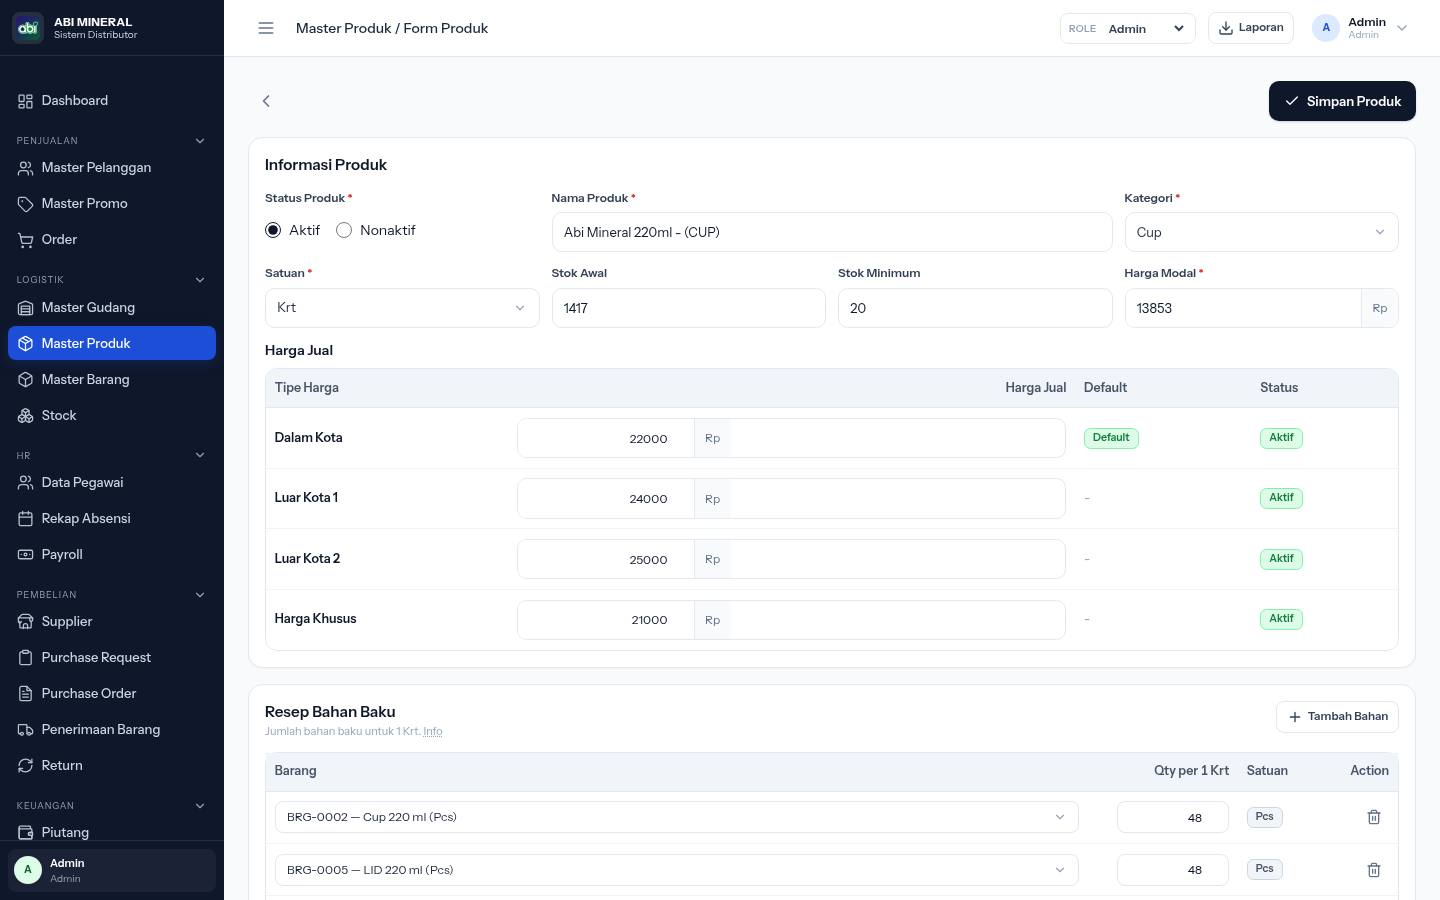
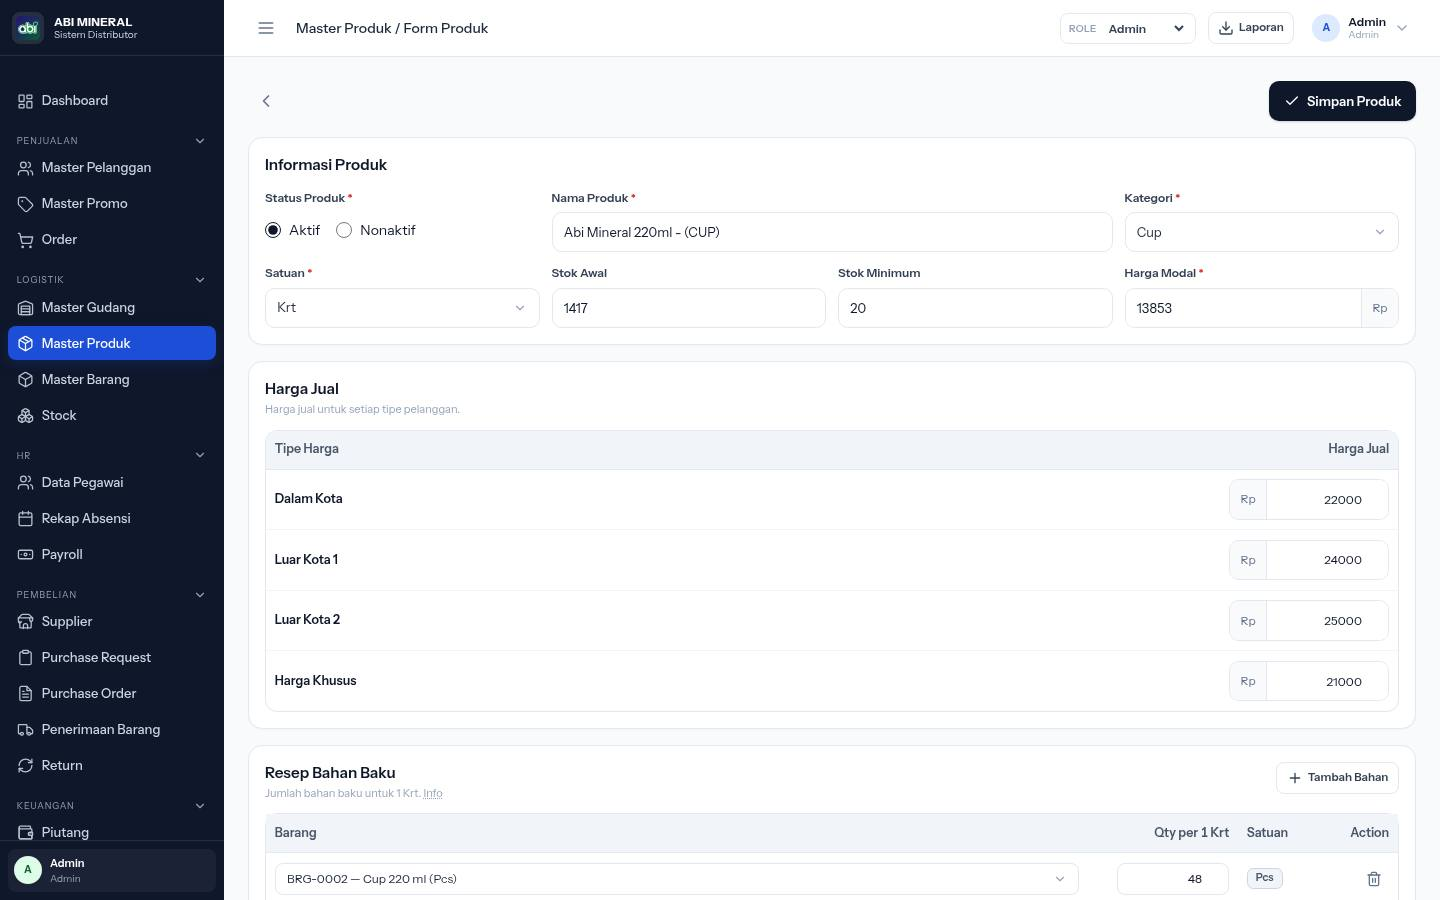
feat: refine product selling price card layout

diff --git a/index.html b/index.html
@@ -1748,24 +1748,33 @@
             <div><label class="label">Stok Awal</label><input type="number" class="input" x-model.number="productForm.stock"></div>
             <div><label class="label">Stok Minimum</label><input type="number" class="input" x-model.number="productForm.minStock"></div>
             <div><label class="label">Harga Modal <span class="req">*</span></label><div class="input-group"><input type="number" class="input" x-model.number="productForm.cost"><span class="addon">Rp</span></div></div>
-            <div class="md:col-span-2 xl:col-span-4">
-              <div class="section-title mb-2 text-sm">Harga Jual</div>
-              <div class="table-wrap">
-                <table class="data-table">
-                  <thead><tr><th>Tipe Harga</th><th class="num">Harga Jual</th><th>Default</th><th>Status</th></tr></thead>
-                  <tbody>
-                    <template x-for="type in activePriceTypes" :key="type.id">
-                      <tr>
-                        <td class="font-semibold" x-text="type.name"></td>
-                        <td class="num"><div class="input-group"><input type="number" min="0" class="input input-sm w-44 text-right" x-model.number="productForm.prices[type.id]"><span class="addon">Rp</span></div></td>
-                        <td><span x-show="type.isDefault" class="badge badge-green">Default</span><span x-show="!type.isDefault" class="text-slate-400">-</span></td>
-                        <td><span class="badge badge-green">Aktif</span></td>
-                      </tr>
-                    </template>
-                  </tbody>
-                </table>
-              </div>
+          </div>
+        </div>
+
+        <div class="card p-4 mb-4">
+          <div class="flex flex-wrap items-start justify-between gap-2">
+            <div>
+              <div class="section-title">Harga Jual</div>
+              <div class="text-[11px] text-slate-400">Harga jual untuk setiap tipe pelanggan.</div>
             </div>
+          </div>
+          <div class="table-wrap mt-3">
+            <table class="data-table">
+              <thead><tr><th>Tipe Harga</th><th class="num" style="width:200px">Harga Jual</th></tr></thead>
+              <tbody>
+                <template x-for="type in activePriceTypes" :key="type.id">
+                  <tr>
+                    <td class="font-semibold" x-text="type.name"></td>
+                    <td class="num">
+                      <div class="input-group w-40 ml-auto">
+                        <span class="addon prepend">Rp</span>
+                        <input type="number" min="0" class="input input-sm text-right" x-model.number="productForm.prices[type.id]">
+                      </div>
+                    </td>
+                  </tr>
+                </template>
+              </tbody>
+            </table>
           </div>
         </div>
 
@@ -5515,7 +5524,7 @@
 <input type="file" id="import-file" accept="application/json,.json" class="hidden" @change="handleImport($event)">
 
 <script src="assets/vendor/xlsx.full.min.js"></script>
-<script src="assets/app.js?v=20261126b"></script>
+<script src="assets/app.js?v=20261126c"></script>
 <script defer src="assets/vendor/alpine.min.js"></script>
 </body>
 </html>

diff --git a/assets/app.css b/assets/app.css
@@ -100,6 +100,7 @@ html.canvas-measuring *::after { transition: none !important; animation: none !i
 .input-group { display: flex; align-items: stretch; border: 1px solid var(--border); border-radius: .6rem; overflow: hidden; background: #fff; }
 .input-group .input { border: 0; border-radius: 0; height: 2.4rem; }
 .input-group .addon { display: flex; align-items: center; padding: 0 .65rem; background: #f8fafc; color: #64748b; font-size: .75rem; border-left: 1px solid var(--border); white-space: nowrap; }
+.input-group .addon.prepend { border-left: 0; border-right: 1px solid var(--border); }
 .checkbox, .radio { width: 1rem; height: 1rem; accent-color: var(--navy); cursor: pointer; }
 
 /* Cards */

diff --git a/app-docs.md b/app-docs.md
@@ -1249,7 +1249,7 @@ Route: `/dashboard/product`
 - Nama Barang *.
 - Satuan * — select dengan `+ Tambah Satuan`.
 - Harga Modal * (Rp).
-- Harga Jual ditampilkan sebagai tabel per **Tipe Harga aktif** (Tipe Harga, Harga Jual, Default, Status). Harga tipe default wajib diisi; tipe lain yang kosong memakai harga default.
+- Harga Jual ditampilkan pada **card terpisah** dengan tabel 2 kolom: **Tipe Harga** (lebar) dan **Harga Jual** (sempit, prefix `Rp`). Kolom Default dan Status tidak ditampilkan. Harga tipe default wajib diisi; tipe lain yang kosong memakai harga default.
 - Tipe harga baru otomatis menyalin harga tipe default ke seluruh produk.
 - Keterangan.
 - Batal/Simpan.
